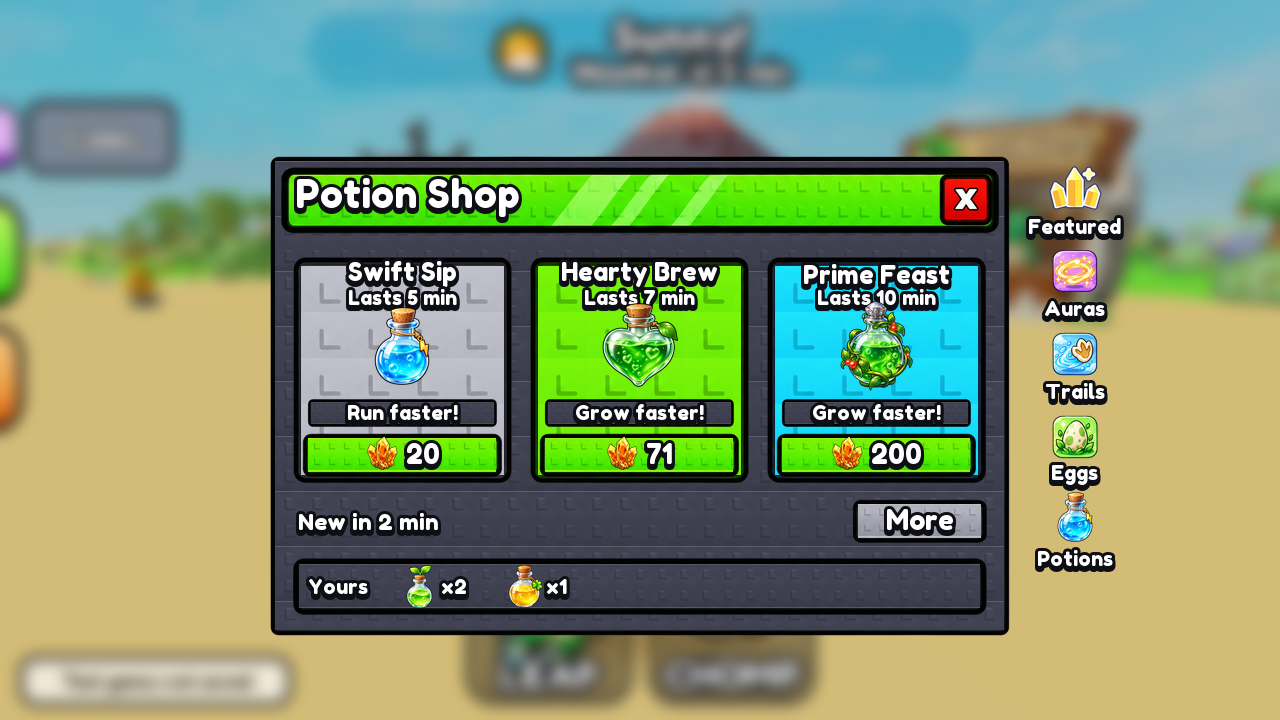
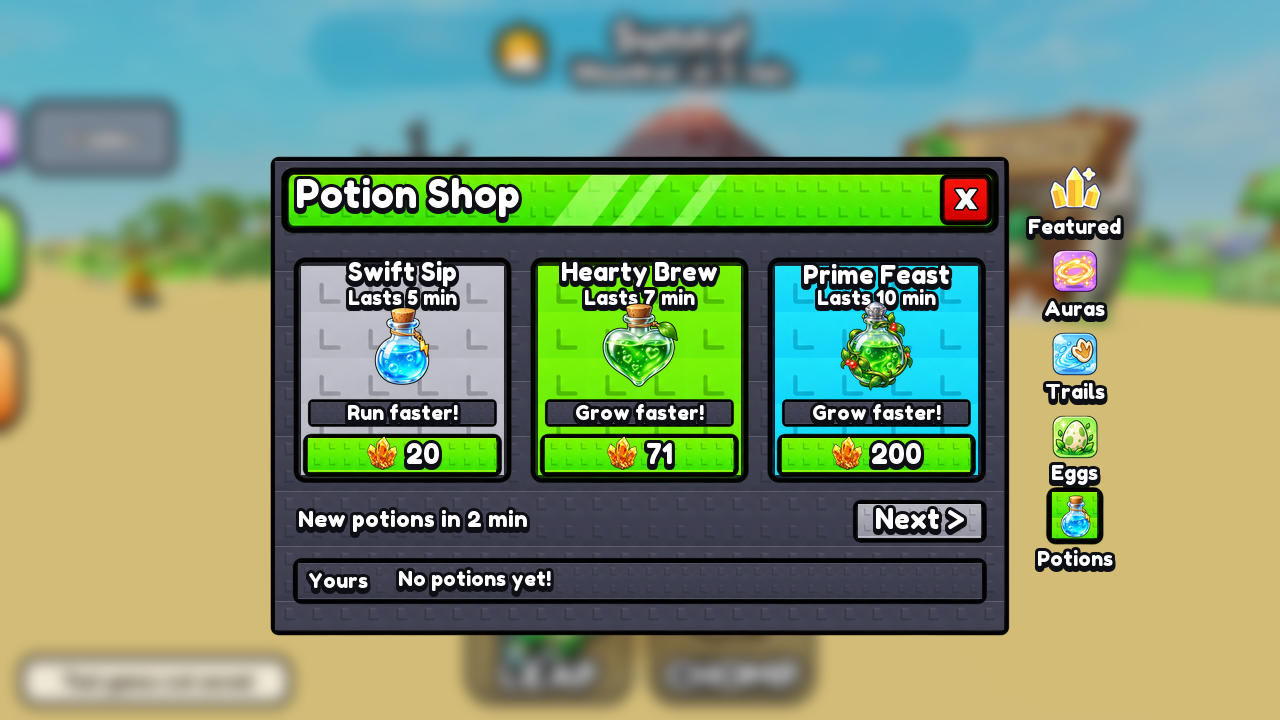
BD-1296: menus slice 2 polish round 1 (ChatGPT 7.3 / 6.8)
Potion Shop: bottles at least 84 px (fills the card on short screens), lime kit tile behind the active rail tab (shared KitRail:
Crystal Shop and Index too), "Next >" / "< Back", "New potions in 2 min" (TimerWords.potionsIn; restockIn unchanged),
"No potions yet!", the Yours strip 50 px at 720 p.
Dino Index: preview boxes zoomed (dinos 38 % bigger, silhouettes 29 %), charcoal #202127 silhouettes (opt-in Preview shade, the
old Index keeps black), light panel with the rarity as a kit badge, "View", 4 px cyan selected edge, 26 px bar with an exact fill,
"Not found yet!". Mock tool, verifier (19 mutants) and evidence updated; v1 pictures kept as *-v1.

diff --git a/tools/mock_menus_slice2.py b/tools/mock_menus_slice2.py
@@ -123,7 +123,7 @@ def picture(canvas, path, x, y, w, h, crop=None, silhouette=False):
     pic = pic.resize((max(1, round(pic.width * k)), max(1, round(pic.height * k))), Image.LANCZOS)
     if silhouette:
         a = pic.getchannel('A')
-        pic = Image.new('RGBA', pic.size, (28, 32, 44, 255))
+        pic = Image.new('RGBA', pic.size, (32, 33, 39, 255))  # charcoal #202127
         pic.putalpha(a.point(lambda v: int(v * 0.85)))
     canvas.alpha_composite(pic, (x + (w - pic.width) // 2, y + (h - pic.height) // 2))
 
@@ -202,10 +202,16 @@ def rail(canvas, lay, tabs, selected, icons, inset):
     r = lay['rail']
     for i, (tab, word) in enumerate(tabs):
         s = r['slots'][i]
-        size = r['selectedIcon'] if tab == selected else r['icon']
+        size = round(r['icon'] * 0.95) if tab == selected else r['icon']
         cx = s['x'] + s['w'] // 2
+        tile = round(r['icon'] * 1.15)
+        iy = s['y'] + inset + r['icon'] - size - ((tile - size) // 2 if tab == selected else 0)
+        if tab == selected:  # client/KitRail: the lime kit tile behind the active icon
+            d = LAYOUT['studded']['shopkit2_button_green']
+            k = tile / d['h']
+            studded(canvas, d, cx - tile // 2, iy + (size - tile) // 2, tile, tile, k * 0.9, k * 0.6)
         if icons.get(tab):
-            picture(canvas, icons[tab], cx - size // 2, s['y'] + inset + r['icon'] - size, size, size)
+            picture(canvas, icons[tab], cx - size // 2, iy, size, size)
         words(canvas, word, s['x'] - 6, s['y'] + inset + r['icon'], s['w'] + 12, r['labelSize'] + 2, r['labelSize'])
 
 
@@ -219,6 +225,7 @@ def backdrop(w, h):
     return bg
 
 
+LAYOUT = {}
 SHOP_ICONS = {'featured': ICONS / 'shop-tab-crystals-v1.png', 'auras': ICONS / 'shop-tab-auras-v2.png', 'trails': ICONS / 'shop-tab-trails-v2.png',
               'eggs': ICONS / 'shop-tile-eggs-v2.png', 'potions': ITEMS / 'potion-swift-sip-512.png'}
 INDEX_ICONS = {'dinos': ICONS / 'dinos.png', 'patterns': ICONS / 'index-tab-patterns-v1.png', 'colours': ICONS / 'index-tab-colours-v1.png',
@@ -226,7 +233,7 @@ INDEX_ICONS = {'dinos': ICONS / 'dinos.png', 'patterns': ICONS / 'index-tab-patt
 # sample data: three offers of one page (Common, Uncommon, Rare) and two owned potions
 POTIONS = [('Swift Sip', 'Common', 'swift-sip', 'Run faster!', 'Lasts 5 min', 20), ('Hearty Brew', 'Uncommon', 'hearty-brew', 'Grow faster!', 'Lasts 7 min', 71),
            ('Prime Feast', 'Rare', 'prime-feast', 'Grow faster!', 'Lasts 10 min', 200)]
-OWNED = [('growth-sip', 2), ('lucky-sip', 1)]
+OWNED = []  # the Studio test player owns none: the strip says "No potions yet!"
 
 
 def potion_mock(L, runner, w, h, inset):
@@ -249,13 +256,15 @@ def potion_mock(L, runner, w, h, inset):
         strip(canvas, L, x + lay['stripInset'], y + sy, cw - 2 * lay['stripInset'], lay['lineH'], kind, lay['lineText'])
         button(canvas, L, x + lay['buttonInset'], y + by, cw - 2 * lay['buttonInset'], lay['button'], price=price, text=lay['buttonText'])
     rs, mo = lay['restock'], lay['more']
-    words(canvas, 'New in 2 min', x0 + rs['x'], y0 + rs['y'], rs['w'], rs['h'], rs['size'], align='left')
-    button(canvas, L, x0 + mo['x'], y0 + mo['y'], mo['w'], mo['h'], word='More', grey=True, text=lay['buttonText'])
+    words(canvas, 'New potions in 2 min', x0 + rs['x'], y0 + rs['y'], rs['w'], rs['h'], rs['size'], align='left')
+    button(canvas, L, x0 + mo['x'], y0 + mo['y'], mo['w'], mo['h'], word='Next >', grey=True, text=lay['buttonText'])
     b = lay.get('band')
     if b:
         strip(canvas, L, x0 + b['x'], y0 + b['y'], b['w'], b['h'], '', b['text'])
         words(canvas, 'Yours', x0 + b['x'] + 14, y0 + b['y'], 90, b['h'], b['text'], align='left')
         ix = x0 + b['x'] + 14 + 90
+        if not OWNED:
+            words(canvas, 'No potions yet!', ix, y0 + b['y'], b['w'] - ix + x0, b['h'], b['text'], align='left')
         for file, n in OWNED:
             picture(canvas, ITEMS / f'potion-{file}-512.png', ix, y0 + b['y'] + (b['h'] - b['icon']) // 2, b['icon'], b['icon'])
             words(canvas, f'x{n}', ix + b['icon'] - 6, y0 + b['y'], 50, b['h'], b['text'], align='left')
@@ -285,28 +294,33 @@ def index_mock(L, runner, w, h, inset, dinos):
         studK = cw / d['w']
         studded(canvas, d, x, y, cw, ch, studK * 0.9, studK)
         if sid == selected:
-            ImageDraw.Draw(canvas).rounded_rectangle((x - 1, y - 1, x + cw, y + ch), radius=8, outline=(255, 255, 255, 255), width=3)
+            ImageDraw.Draw(canvas).rounded_rectangle((x - 2, y - 2, x + cw + 1, y + ch + 1), radius=8, outline=(92, 214, 245, 255), width=4)
         rend = lay['cardRender']
         ry = max(4, (ch - (rend + lay['countText'] + 2)) // 2)
-        picture(canvas, Path(dinos) / (DINO_FILES.get(sid, sid) + '.png'), x + (cw - rend) // 2, y + ry, rend, rend, silhouette=n == 0)
+        big = round(rend * (1.4 if n > 0 else 1.3))  # the game zooms its preview boxes; the cutouts have no margin, so a smaller factor
+        picture(canvas, Path(dinos) / (DINO_FILES.get(sid, sid) + '.png'), x + (cw - big) // 2, y + ry + (rend - big) // 2, big, big, silhouette=n == 0)
         words(canvas, f'x{n}' if n > 0 else '?', x, y + ry + rend - 2, cw, lay['countText'] + 4, lay['countText'])
     p, pp = lay['panel'], lay['panelParts']
     px, py = x0 + p['x'], y0 + p['y']
-    d = L['studded']['shopkit2_card_rare']
+    d = L['studded']['shopkit2_card_common']  # the light panel, the rarity as a badge
     studK = p['w'] / d['w']
     studded(canvas, d, px, py, p['w'], p['h'], studK * 0.7, studK)
     words(canvas, 'Triceratops', px + 4, py + pp['edge'], p['w'] - 8, pp['nameText'] + 2, min(pp['nameText'], max(19, int((p['w'] - 12) / (11 * 0.56)))))
-    words(canvas, 'Rare', px + 4, py + pp['edge'] + pp['nameText'] + 2, p['w'] - 8, pp['wordText'] + 2, pp['wordText'])
+    bw = min(p['w'] - 2 * pp['inset'], int(len('Rare') * 0.56 * pp['wordText']) + 24)
+    bx0, by0 = px + (p['w'] - bw) // 2, py + pp['edge'] + pp['nameText'] + 2
+    db = L['studded']['shopkit2_card_rare']
+    studded(canvas, db, bx0, by0, bw, pp['badge'], bw / db['w'] * 0.5, bw / db['w'])
+    words(canvas, 'Rare', bx0, by0 - 1, bw, pp['badge'], pp['wordText'])
     by = p['h'] - pp['edge'] - pp['button']
     sy = by - pp['gap'] - pp['line']
     rend = min(pp['render'], sy - pp['gap'] - pp['renderTop'])
-    picture(canvas, Path(dinos) / 'triceratops.png', px + (p['w'] - rend) // 2, py + pp['renderTop'] + (sy - pp['gap'] - pp['renderTop'] - rend) // 2, rend, rend)
+    picture(canvas, Path(dinos) / 'triceratops.png', px + (p['w'] - rend) // 2, py + pp['renderTop'] + (sy - pp['gap'] - pp['renderTop'] - rend) // 2, rend, rend)  # fills its box like the zoomed preview
     strip(canvas, L, px + pp['inset'], py + sy, p['w'] - 2 * pp['inset'], pp['line'], 'You have 1', pp['wordText'])
-    button(canvas, L, px + pp['inset'], py + by, p['w'] - 2 * pp['inset'], pp['button'], word='Look', text=pp['buttonText'])
+    button(canvas, L, px + pp['inset'], py + by, p['w'] - 2 * pp['inset'], pp['button'], word='View', text=pp['buttonText'])
     bar = lay['bar']
     bx, byy = x0 + bar['x'], y0 + bar['y']
     strip(canvas, L, bx, byy, bar['w'], bar['h'], '', bar['text'])
-    fill = max(bar['h'], round(bar['w'] * 5 / 22))
+    fill = round(bar['w'] * 5 / 22)  # exact
     dg = L['studded']['shopkit2_button_green']
     k = bar['h'] / dg['h']
     studded(canvas, dg, bx, byy, fill, bar['h'], k, k)
@@ -329,6 +343,7 @@ def main():
     a = ap.parse_args()
     w, h = (int(v) for v in a.size.split('x'))
     L = layouts(a.runner, w, h, a.inset)
+    LAYOUT.update(L)
     out = Path(a.out)
     out.mkdir(parents=True, exist_ok=True)
     potion_mock(L, a.runner, w, h, a.inset).convert('RGB').save(out / f'mock-potion-shop{a.suffix}.png')

diff --git a/tools/verify_sae_frame.py b/tools/verify_sae_frame.py
@@ -212,7 +212,8 @@ def scan():
 # ---- BD-1296 slice 2 ------------------------------------------------------------------------------------------------------------------
 SLICE2 = {'rules': 'src/shared/SaeMenuRules.luau', 'potion': 'src/client/PotionSaeShop.luau', 'index': 'src/client/DinoIndexKit.luau',
           'shops': 'src/client/ShopScreens.luau', 'screens': 'src/client/DinoIndexScreens.luau', 'window': 'src/client/KitWindow.luau',
-          'kit2': 'src/shared/ShopKit2.luau', 'tabs': 'src/client/IndexTabs.luau', 'boot': 'src/client/Bootstrap.client.luau'}
+          'kit2': 'src/shared/ShopKit2.luau', 'tabs': 'src/client/IndexTabs.luau', 'boot': 'src/client/Bootstrap.client.luau',
+          'rail': 'src/client/KitRail.luau', 'timer': 'src/shared/TimerWords.luau', 'preview': 'src/shared/DinosaurPreview.luau'}
 
 LUAU2 = r'''
 local fails = {}
@@ -227,6 +228,8 @@ check(near(P.headerH / 720, .095, .105) and near(P.close, 52, 58) and near(P.tit
 check(#P.cards == 3 and M.Potion.perPage == 3, "three potions per page")
 for _, c in P.cards do check(near(c.h / 720, .28, .32), "potion cards 28-32 % H") end
 check(near(P.art / 720, .12, .14), "the bottle 12-14 % H")
+local S = M.potionLayout(1274, 423, 58)
+check(S.art >= 80, "Studio canvas: the bottle box 80+ px (lead polish: bottles 45-60 % bigger)")
 check(near(P.button / 720, .06, .07) and near(P.buttonText, 25, 28), "the buy button 6.5 % H, price 25-28 px")
 check(near(P.cardTitle, 23, 26) and near(P.rarityText, 19, 22) and near(P.lineText, 19, 22), "name 23-26 px, body 19-22 px")
 check(P.restock.size == 22 and P.restock.h >= 22, "New in 3 min: one 22 px line")
@@ -240,7 +243,11 @@ check(#I.cards == 8 and I.cards[5].y > I.cards[1].y and I.cards[4].x > I.cards[3
 for _, c in I.cards do check(near(c.h / 720, .14, .16), "index cards 14-16 % H") end
 check(near(I.cardRender / 720, .09, .11), "the dino render 9-11 % H")
 check(near(I.panel.w / w.w, .26, .30), "the selected-dino panel about 28 % of the window width")
-check(near(I.bar.h / 720, .045, .055), "the progress bar 5 % H")
+check(near(I.bar.h, 24, 28), "the progress bar 24-28 px at 720 p (lead polish 2026-11-23; docs/246 said 5 % H)")
+check(M.LookWord == "View" and M.NotFoundWord == "Not found yet!" and M.NoneWord == "No potions yet!" and string.find(M.MoreWord, "Next", 1, true) ~= nil, "polish words: View, Not found yet!, No potions yet!, Next")
+check(M.CardZoom >= .25 and M.PanelZoom >= .25 and M.SilhouetteZoom >= .2, "the dino previews fill their cards (zoomed preview boxes)")
+check(I.panelParts.badge >= 19 + 6 and I.panelParts.renderTop >= I.panelParts.edge + I.panelParts.nameText + I.panelParts.badge, "the rarity badge under the name, above the dino")
+check(near(P.band.h, 48, 52), "the owned strip 48-52 px at 720 p")
 check(near(I.headerH / 720, .095, .105) and near(I.titleSize, 36, 40), "Index header 9.5-10 % H, title 36-40 px")
 check(M.IndexTitle == "Dino Index" and M.IndexColour == "cyan" and M.IndexRail[1] == "dinos" and M.IndexRail[2] == "patterns" and M.IndexRail[3] == "colours", "one cyan title; Dinos / Patterns / Colours on the rail")
 for _, L in {P, I} do
@@ -320,9 +327,9 @@ def scan2(src):
     need('ProgressionRules.shopOffers(d.window)' in potion and 'ProgressionRules.shopRemaining(p, d.window, item.id)' in potion, 'the offers and stock come from the shared shop rules')
     need('Kit.potionIconSlot(Slots.Images :: any, item.id, item.kind)' in potion, 'the bound potion pictures')
     need('Menu.lasts(item.duration)' in potion and 'Menu.kindWord(item.kind)' in potion and 'multiplier' not in potion, 'kid words: what it does and how long, never the multiplier')
-    need('if ProgressionRules.shopWindow(now) ~= d.window then d.restocked() return end' in potion and 'TimerWords.restockIn(' in potion, 'New in 3 min counts down; a new window redraws')
+    need('if ProgressionRules.shopWindow(now) ~= d.window then d.restocked() return end' in potion and 'TimerWords.potionsIn(' in potion, 'New in 3 min counts down; a new window redraws')
     need('IndexTabs.lastTab() ~= "dinos" then return false end' in index and 'IndexTabs.choose(tab) d.open("collection")' in index, 'Patterns / Colours keep their own pages (the rail picks the tab)')
-    need('d.hero(card, id, rx, ry, render, render, d.bestMutation(id))' in index and 'Preview.add(card, id, "silhouette")' in index, 'found dinos are the game preview in colour, the others a silhouette')
+    need('d.hero(card, id, rx, ry, render, render, d.bestMutation(id))' in index and 'Preview.add(card, id, "silhouette", CHARCOAL)' in index and 'Color3.fromRGB(32, 33, 39)' in index, 'found dinos are the game preview in colour, the others a silhouette')
     need('if found then rarityWord(d.speciesIndex(id)) else "Common"' in index, 'found dinos on their rarity card, not found on the grey card')
     need('TimerWords.found(unlocked, total)' in index and 'i <= #Config.SpeciesOrder and info(id, false)' in index, 'the bar counts the normal dinos only (secrets apart)')
     need('Config.PatternColourIndexEnabled == true then table.insert(out, tab)' in index, 'Patterns / Colours on the rail only while their pages exist')
@@ -334,6 +341,10 @@ def scan2(src):
     need('if not table.find(Kit2.HeaderColours, colour) then return false end' in src['window'] and 'headerCard(header, spec.colour, headerW, lay.headerH)' in src['window'],
          'KitWindow: a colour with no kit 2 strip is the kit 2 card piece, never the green strip')
     need('if spec.content then spec.content(window, lay, holder) end' in src['window'] and 'spec.refresh = redraw' in src['window'], 'KitWindow draws a screen part and redraws in place')
+    need('Art.studded(holder, "KitTabTile_" .. tab, Kit2.buttonSlot(false),' in src['rail'] and '        if selected then\n            -- BD-1296' in src['rail'], 'KitRail: the active tab sits on the lime kit tile (every kit screen)')
+    need('function W.potionsIn(secondsLeft: number): string' in src['timer'] and 'return "New in " .. UIFormat.duration(secondsLeft)' in src['timer'], 'New potions in 2 min is its own function; the Toybox page keeps restockIn')
+    need('if shade and gold=="silhouette" then viewport:SetAttribute("SilhouetteShade",shade) end' in src['preview'], 'the charcoal silhouette is opt-in (the old Index keeps black)')
+    need('local fill = if total > 0 then math.floor(B.w * unlocked / total + 0.5) else 0' in index, 'the progress fill is exact (1/22 = 4.5 %)')
     need('K.HeaderCards = {cyan = "rare"}' in src['kit2'], 'the cyan header is the kit 2 Rare card piece')
     need('function Tabs.choose(tab: string) lastTab = Index.validTab(tab) end' in src['tabs'], 'IndexTabs.choose keeps the tab valid')
     need('M.Potion = {w = 0.58, h = 0.67,' in src['rules'] and 'M.Index = {w = 0.50, h = 0.63,' in src['rules'], 'docs/246 window sizes')
@@ -350,6 +361,8 @@ MUTANTS = {
     'not found dinos in colour': ('index', 'if found then rarityWord(d.speciesIndex(id)) else "Common"', 'rarityWord(d.speciesIndex(id))'),
     'the cyan Index header turns green': ('window', 'if not table.find(Kit2.HeaderColours, colour) then return false end', ''),
     'a colour fill in the potion screen': ('potion', 'local M = {}', 'local M = {}\nlocal _x = Instance.new("Frame") _x.BackgroundColor3 = Color3.new(1, 0, 0)'),
+    'the active rail tab loses its tile': ('rail', '        if selected then\n            -- BD-1296', '        if false then\n            -- BD-1296'),
+    'the progress fill rounds up to a square': ('index', 'local fill = if total > 0 then math.floor(B.w * unlocked / total + 0.5) else 0', 'local fill = math.max(B.h, math.floor(B.w * unlocked / total + 0.5))'),
     'the Index window at shop size': ('rules', 'M.Index = {w = 0.50, h = 0.63,', 'M.Index = {w = 0.58, h = 0.67,'),
 }
 LUAU_MUTANTS = {
